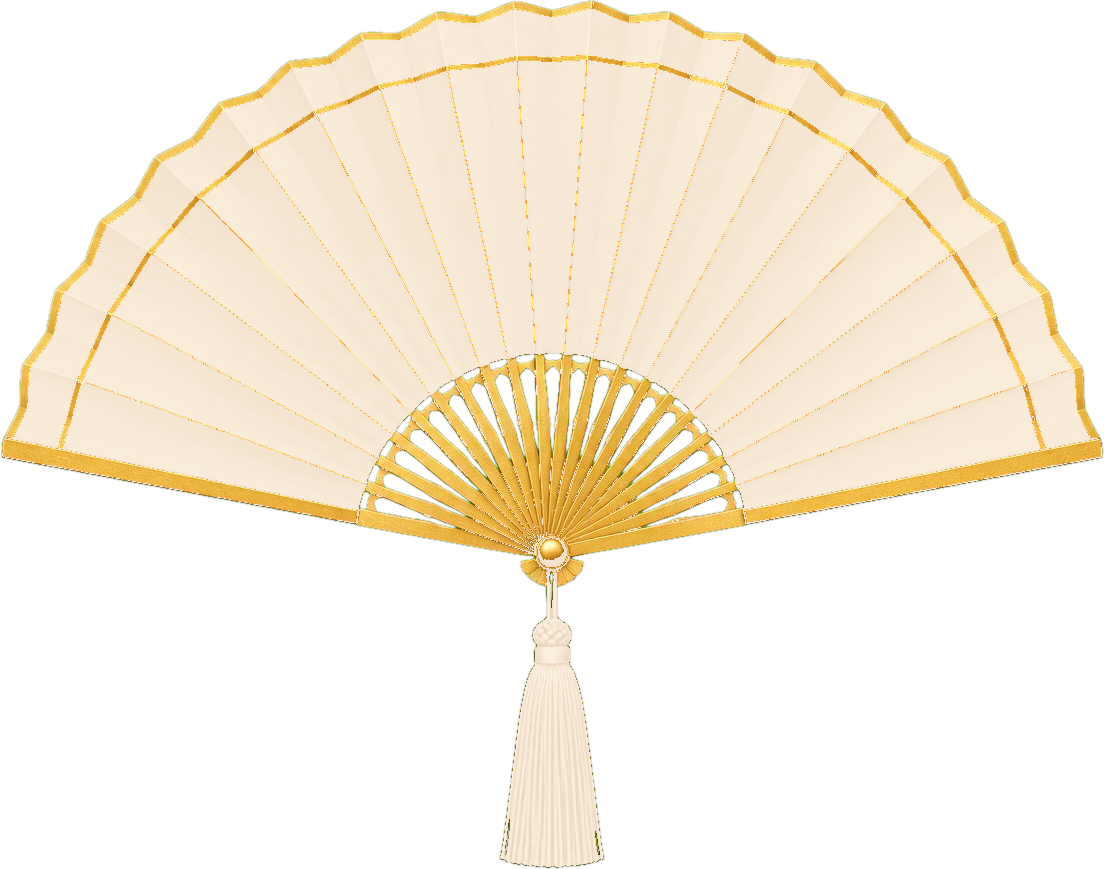
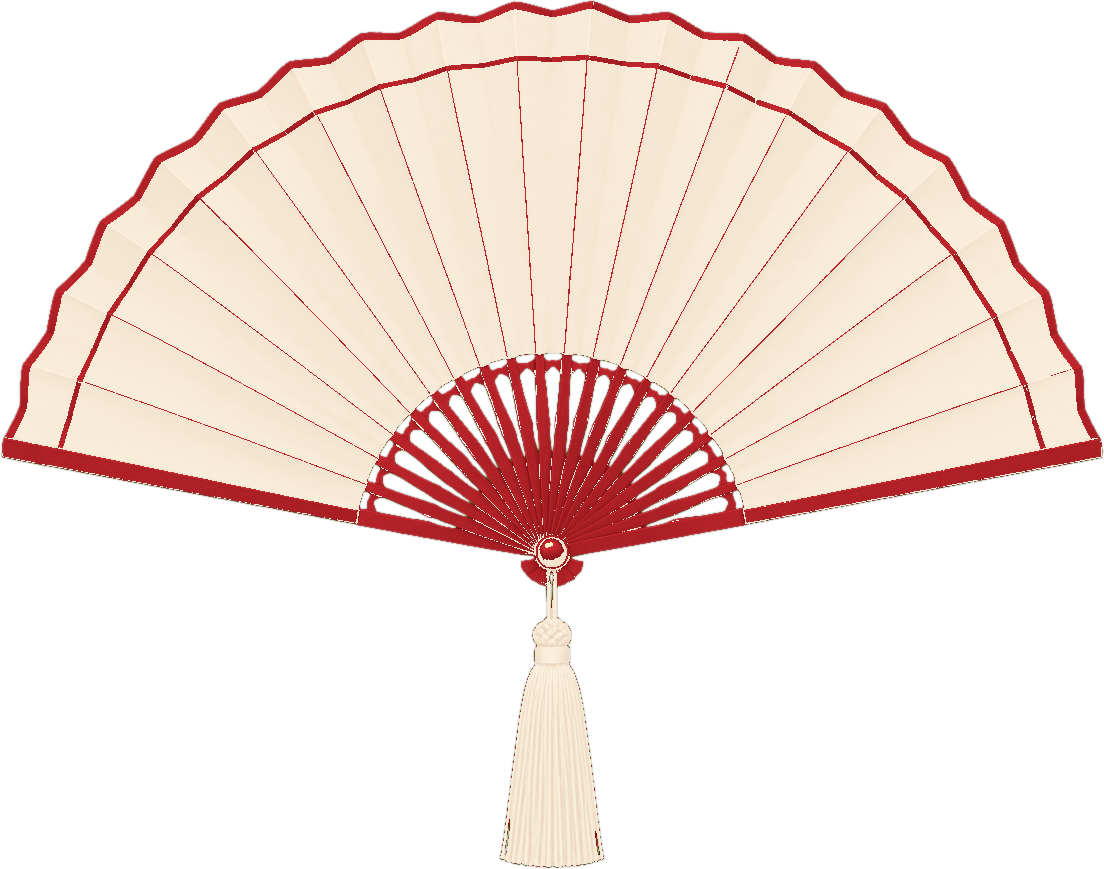
Opsi-1 intro: red fan trim, tap hint in a blurred glass circle between the fans

diff --git a/opsi-1.html b/opsi-1.html
@@ -51,6 +51,12 @@
   .curtain.open .cdeco{opacity:0;transition:opacity .6s}
   .pinyon{font-family:'Tangerine',cursive !important;font-weight:700}
   .tap .who{font-size:40px !important;font-weight:700}
+  .knob{position:absolute;left:50%;top:40cqh;z-index:3;width:116px;height:116px;margin:-58px 0 0 -58px;border-radius:50%;
+    display:flex;align-items:center;justify-content:center;text-align:center;background:rgba(251,243,228,.35);
+    -webkit-backdrop-filter:blur(10px);backdrop-filter:blur(10px);border:1px solid rgba(158,27,27,.35);box-shadow:0 6px 24px rgba(120,30,20,.18);
+    font:10px/1.7 'Cinzel',serif;letter-spacing:.25em;color:#9e1b1b;transition:opacity .4s}
+  .knob span{animation:blink 1.8s ease-in-out infinite;padding-left:.25em}
+  .curtain.open .knob{opacity:0}
 </style>
 </head>
 <body>
@@ -102,7 +108,8 @@
     <div class="cdeco" style="left:-12cqw;top:-3cqh;width:80cqw;height:30cqh"><img src="assets/figma/tree2.webp" alt=""></div>
     <div class="cdeco" style="right:-6cqw;top:0;width:22cqw;height:24cqh"><img src="assets/figma/lamp.webp" alt=""></div>
     <div class="cdeco" style="right:-22cqw;bottom:-9cqh;width:56cqw;height:20cqh;transform:scale(-1,-1)"><img src="assets/figma/tree2.webp" alt=""></div>
-    <div class="tap"><span class="yth">YTH. BAPAK/IBU/SAUDARA/I</span><span class="who" id="guest">Nama Tamu</span><span class="yth">DIUNDANG DI ACARA INI</span><span class="hint">KETUK UNTUK MEMBUKA</span></div>
+    <div class="knob"><span>KETUK<br>UNTUK<br>MEMBUKA</span></div>
+    <div class="tap"><span class="yth">YTH. BAPAK/IBU/SAUDARA/I</span><span class="who" id="guest">Nama Tamu</span><span class="yth">DIUNDANG DI ACARA INI</span></div>
   </div>
 </div>
 <script>
